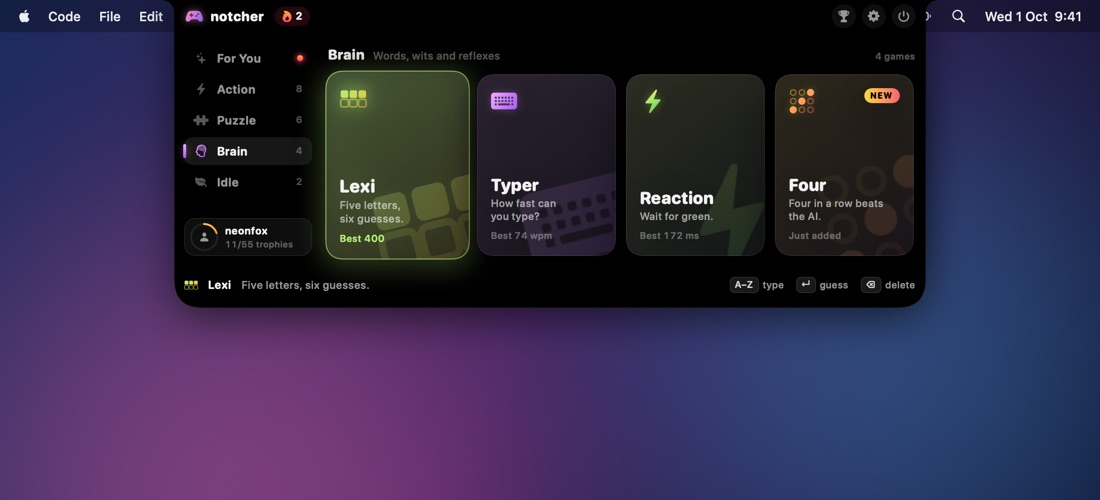
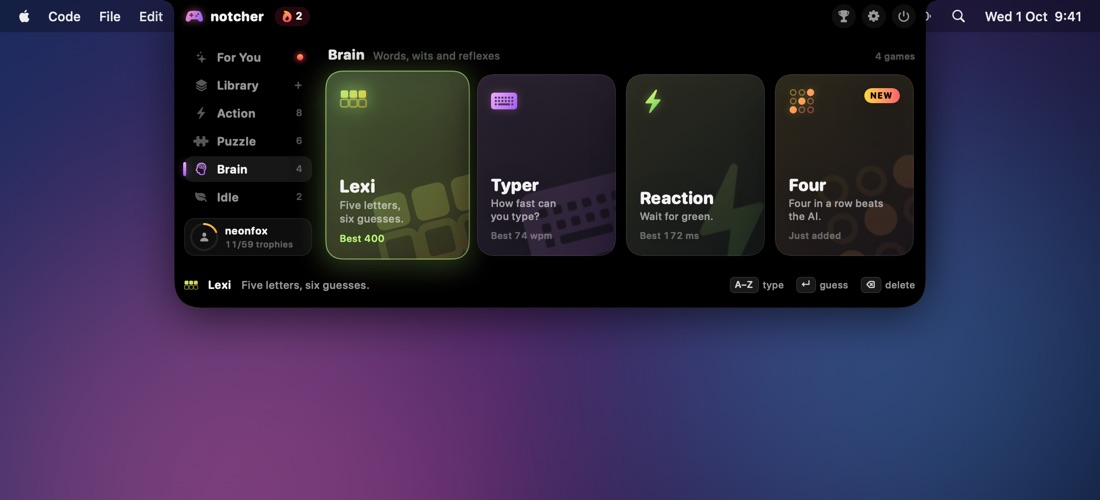
README: lead with ROM play; new screenshots of the console, drop and library
Claude-Session: https://claude.ai/code/session_01YNeF88pdPrPPHyKvV2e4u1

Changed region(s): [[0.1545, 0.15, 0.2782, 0.42], [0.1855, 0.09, 0.2164, 0.12]]

diff --git a/README.md b/README.md
@@ -13,11 +13,11 @@ Notcher turns the notch into a small arcade that behaves like the Dynamic Island
 
 **Hover → Choose → Play → Esc → Back to work.**
 
-## Play your own ROMs
-
 <p align="center">
   <img src="docs/screenshots/console-nes.jpg" width="720" alt="A NES game running in the notch, with the D-pad and buttons lighting up on either side">
 </p>
+
+## Play your own ROMs
 
 <p align="center">
   <img src="docs/screenshots/drop.jpg" width="49%" alt="Dragging a ROM toward the notch turns it into a drop target">
@@ -39,8 +39,10 @@ Notcher turns the notch into a small arcade that behaves like the Dynamic Island
 
 Notcher doesn't include or download any commercial games. Only play ROMs of games you own.
 
+## Built-in games
+
 <p align="center">
-  <img src="docs/screenshots/launcher.jpg" width="720" alt="The Notcher launcher expanded out of the notch">
+  <img src="docs/screenshots/launcher.jpg" width="720" alt="The For You page: today's challenge, the ROM you played last and your recent games">
 </p>
 
 <p align="center">
@@ -52,8 +54,6 @@ Notcher doesn't include or download any commercial games. Only play ROMs of game
   <img src="docs/screenshots/launcher-brain.jpg" width="49%" alt="The Brain page with tall poster tiles">
   <img src="docs/screenshots/quit.jpg" width="49%" alt="The two-step quit button">
 </p>
-
-## Built-in games
 
 - **Hover to open.** The notch grows sideways, then down, and the games fade in.
 - **Pick a page.** For You shows today's challenge, the ROM you played last and your recent games. Library holds your ROMs; Action, Puzzle, Brain and Idle hold the built-in games. Resting on a page in the sidebar switches to it.
